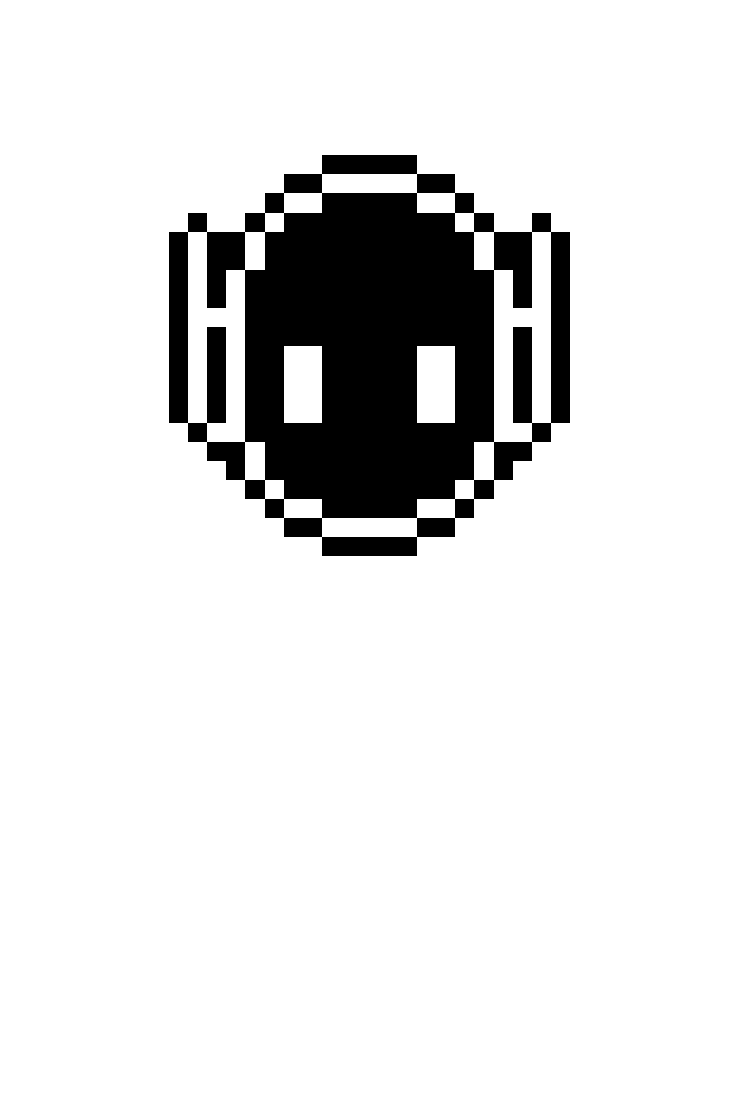
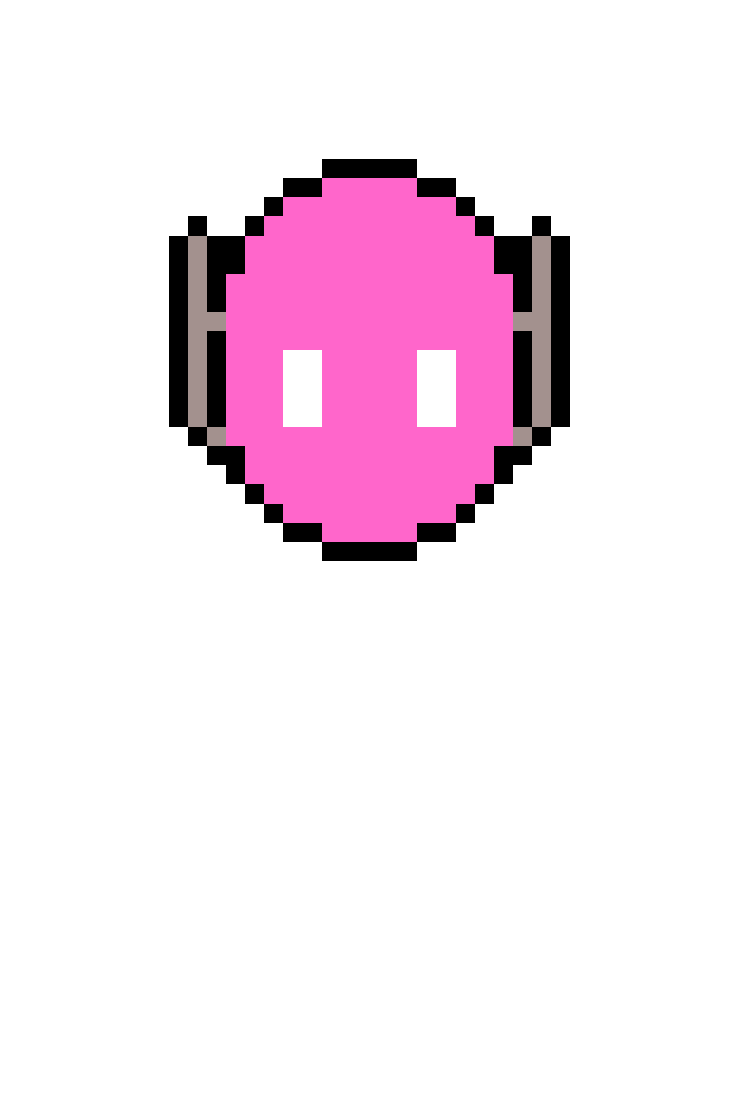
Balance changes and new art

Changed region(s): [[0.2486, 0.1236, 0.7459, 0.5255]]

diff --git a/Helpers/TargetConstraintHelper.cs b/Helpers/TargetConstraintHelper.cs
@@ -24,10 +24,31 @@ namespace RainfrostMod.Helpers
             targetConstraint.trait = Rainfrost.TryGet<TraitData>(trait);
             return targetConstraint;
         }
+        public static TargetConstraintAnd ApplyCharmConstraint(Action<TargetConstraintAnd> modification = null, bool not = false)
+        {
+            var targetConstraint = And("Does Trigger, Plays On Board, Does Not Play On Slot", not,
+                DoesTrigger(),
+                General<TargetConstraintPlayOnSlot>("Plays On Board", tc => tc.board = true),
+                General<TargetConstraintPlayOnSlot>("Does Not Play On Slot", tc => tc.slot = true, true)
+            );
+            modification?.Invoke(targetConstraint);
+            return targetConstraint;
+        }
+
+        public static TargetConstraintOr DoesTrigger(Action<TargetConstraintOr> modification = null, bool not = false)
+        {
+            var targetConstraint = Or(not ? "Does Not Trigger" : "Does Trigger", not,
+                MaxCounterMoreThan(0),
+                General<TargetConstraintHasReaction>("Has Reaction"),
+                General<TargetConstraintIsItem>("Is Item")
+            );
+            modification?.Invoke(targetConstraint);
+            return targetConstraint;
+        }
 
         public static TargetConstraintOr HasCounterOrReaction(Action<TargetConstraintOr> modification = null, bool not = false)
         {
-            var targetConstraint = Or("Has Counter Or Reaction", not,
+            var targetConstraint = Or(not ? "Does Not Have Counter Or Reaction" : "Has Counter Or Reaction", not,
                 MaxCounterMoreThan(0),
                 General<TargetConstraintHasReaction>("Has Reaction")
             );

diff --git a/Rainfrost.cs b/Rainfrost.cs
@@ -73,7 +73,7 @@ namespace RainfrostMod
         {
             if (!Addressables.ResourceLocators.Any(r => r is ResourceLocationMap map && map.LocatorId == CatalogPath))
                 Addressables.LoadContentCatalogAsync(CatalogPath).WaitForCompletion();
-            
+
             Cards = (SpriteAtlas)Addressables.LoadAssetAsync<UnityEngine.Object>($"Assets/{GUID}/Cards.spriteatlas").WaitForCompletion();
             if (Cards == null)
                 throw new Exception("Sprite Assets not found");
@@ -172,6 +172,8 @@ namespace RainfrostMod
                 new OnCardPlayedTriggerAgainstNonRotAlliesInRow().Builder(),
 
                 new WhenCardConsumedApplyHealToSelf().Builder(),
+
+                new Kill().Builder(),
 
                 /**
                  * Keywords
@@ -295,6 +297,8 @@ namespace RainfrostMod
                 new CardUpgradeRot().Builder(),
                 new CardUpgradeIterator().Builder(),
                 new CardUpgradeSlugcat().Builder(),
+                new CardUpgradeZap().Builder(),
+                new CardUpgradeBattery().Builder(),
             ];
 
             loaded = true;
@@ -321,7 +325,7 @@ namespace RainfrostMod
         public override List<T> AddAssets<T, Y>()
         {
             if (assets.OfType<T>().Any())
-                LogHelper.Warn($"[{Title}] adding {typeof(Y).Name}s: {assets.OfType<T>().Select(a => a._data.name).Join()}");
+                LogHelper.Log($"Adding {typeof(Y).Name}s: {assets.OfType<T>().Select(a => a._data.name).Join()}");
             return assets.OfType<T>().ToList();
         }
 

diff --git a/CardUpgrades/CardUpgradeBattery.cs b/CardUpgrades/CardUpgradeBattery.cs
@@ -1,0 +1,22 @@
+using RainfrostMod.Helpers;
+using RainfrostMod.StatusEffects;
+
+namespace RainfrostMod.CardUpgrades
+{
+    internal class CardUpgradeBattery() : AbstractCardUpgrade(
+        Name, "Battery Charm",
+        $"Replace current <keyword=attack> with apply <keyword={Keywords.Zap.Name}>",
+        subscribe: charm =>
+        {
+            var replaceAttackWithZapScript = ScriptableHelper.CreateScriptable<CardScriptReplaceAttackWithApply>("Replace Attack With Zap");
+            replaceAttackWithZapScript.effect = Rainfrost.GetStatus<StatusEffectData>(Zap.Name);
+            charm.scripts = [replaceAttackWithZapScript];
+            
+            charm.targetConstraints = [
+                TargetConstraintHelper.General<TargetConstraintDoesDamage>("Does Damage"),
+            ];
+        })
+    {
+        public const string Name = "CardUpgradeBattery";
+    }
+}

diff --git a/CardUpgrades/CardUpgradeSlugcat.cs b/CardUpgrades/CardUpgradeSlugcat.cs
@@ -1,6 +1,4 @@
-using RainfrostMod.Helpers;
-
-namespace RainfrostMod.CardUpgrades
+namespace RainfrostMod.CardUpgrades
 {
     internal class CardUpgradeSlugcat() : AbstractCardUpgrade(
         Name, "Scug Charm",
@@ -9,10 +7,6 @@ namespace RainfrostMod.CardUpgrades
         {
             charm.damage = 1;
             charm.giveTraits = [Rainfrost.TStack(Traits.Slugcat.Name)];
-            charm.targetConstraints = [
-                TargetConstraintHelper.General<TargetConstraintDoesAttack>("Does Attack"),
-                TargetConstraintHelper.HasTrait(Traits.Slugcat.Name, not: true)
-            ];
         })
     {
         public const string Name = "CardUpgradeSlugcat";

diff --git a/CardUpgrades/CardUpgradeZap.cs b/CardUpgrades/CardUpgradeZap.cs
@@ -1,0 +1,20 @@
+using RainfrostMod.Helpers;
+using RainfrostMod.StatusEffects;
+
+namespace RainfrostMod.CardUpgrades
+{
+    internal class CardUpgradeZap() : AbstractCardUpgrade(
+        Name, "Zap Charm",
+        $"Apply <1><keyword={Keywords.Zap.Name}>",
+        subscribe: charm =>
+        {
+            charm.attackEffects = [Rainfrost.SStack(Zap.Name, 1)];
+            charm.targetConstraints = [
+                TargetConstraintHelper.ApplyCharmConstraint(),
+            ];
+            charm.becomesTargetedCard = true;
+        })
+    {
+        public const string Name = "CardUpgradeZap";
+    }
+}

diff --git a/CardUpgrades/CardUpgradeIterator.cs b/CardUpgrades/CardUpgradeIterator.cs
@@ -11,8 +11,7 @@ namespace RainfrostMod.CardUpgrades
             charm.effects = [Rainfrost.SStack("Scrap", 3)];
             charm.giveTraits = [Rainfrost.TStack(Traits.Iterator.Name)];
             charm.targetConstraints = [
-                TargetConstraintHelper.General<TargetConstraintHasHealth>(),
-                TargetConstraintHelper.HasTrait(Traits.Iterator.Name, not: true)
+                TargetConstraintHelper.General<TargetConstraintHasHealth>("Has Health"),
             ];
             charm.setHp = true;
             charm.hpChange = 0;

diff --git a/CardUpgrades/CardUpgradeRot.cs b/CardUpgrades/CardUpgradeRot.cs
@@ -13,9 +13,8 @@ namespace RainfrostMod.CardUpgrades
             ];
             charm.giveTraits = [Rainfrost.TStack(Traits.Rot.Name)];
             charm.targetConstraints = [
-                TargetConstraintHelper.HealthMoreThan(0),
+                TargetConstraintHelper.General<TargetConstraintHasHealth>("Has Health"),
                 TargetConstraintHelper.General<TargetConstraintDoesDamage>("Does Damage"),
-                TargetConstraintHelper.HasTrait(Traits.Rot.Name, not: true)
             ];
         })
     {

diff --git a/Cards/Companion/HunterLongLegs.cs b/Cards/Companion/HunterLongLegs.cs
@@ -4,7 +4,7 @@ namespace RainfrostMod.Cards.Companion
 {
     internal class HunterLongLegs() : AbstractUnit(
         Name, "Hunter Long Legs",
-        6, 4, 4,
+        6, 4, 3,
         Pools.None,
         card =>
         {
@@ -12,7 +12,8 @@ namespace RainfrostMod.Cards.Companion
                 Rainfrost.TStack(Traits.Rot.Name),
                 Rainfrost.TStack("Barrage"),
             ];
-        })
+        },
+        altSprite: true)
     {
         public const string Name = "HunterLongLegs";
     }

diff --git a/Cards/Companion/Centipede.cs b/Cards/Companion/Centipede.cs
@@ -1,10 +1,12 @@
-using RainfrostMod.StatusEffects;
+using RainfrostMod.Helpers;
+using RainfrostMod.StatusEffects;
 
 namespace RainfrostMod.Cards.Companion
 {
     internal class Centipede() : AbstractUnit(
         Name, "Centipede",
         8, 0, 4,
+        pools: Pools.None,
         subscribe: card =>
         {
             card.attackEffects = [Rainfrost.SStack(Zap.Name, 2)];

diff --git a/StatusEffects/Kill.cs b/StatusEffects/Kill.cs
@@ -1,0 +1,12 @@
+using RainfrostMod.StatusEffects.Implementations;
+
+namespace RainfrostMod.StatusEffects
+{
+    internal class Kill() : AbstractStatus<StatusEffectInstantKill>(
+        Name, "Kill",
+        true
+        )
+    {
+        public const string Name = "Kill";
+    }
+}

diff --git a/StatusEffects/Zap.cs b/StatusEffects/Zap.cs
@@ -9,7 +9,6 @@ namespace RainfrostMod.StatusEffects
     internal class Zap() : AbstractApplyXStatus<StatusEffectApplyXPreTurnIgnoreSilence>(
         Name,
         canStack: true,
-        canBoost: true,
         applyToFlags: ApplyToFlags.Self,
         subscribe: data =>
         {

diff --git a/Cards/Companion/AttunedSaint.cs b/Cards/Companion/AttunedSaint.cs
@@ -10,7 +10,7 @@ namespace RainfrostMod.Cards.Companion
         card =>
         {
             card.attackEffects = [
-                Rainfrost.SStack("Reduce Max Health", 50),
+                Rainfrost.SStack("Kill", 1),
             ];
 
             card.startWithEffects = [
